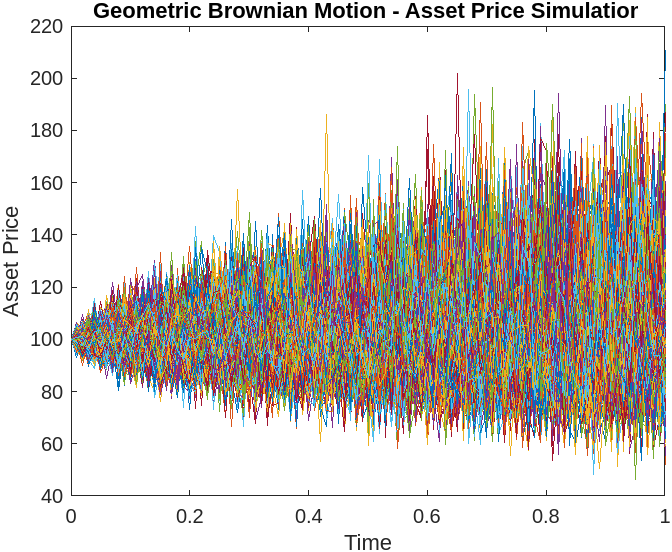
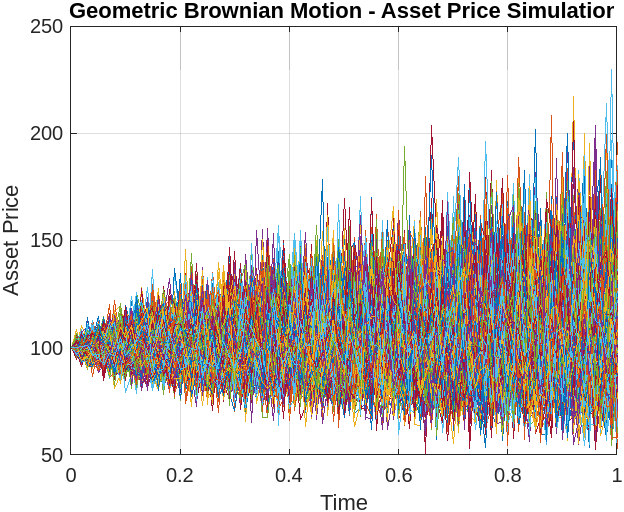
Dynamic Assets Prices with seed and computed results

diff --git a/GeometricBrownianMotion.m b/GeometricBrownianMotion.m
@@ -7,6 +7,9 @@ dt = 0.01;      % time step
 N = T/dt;       % number of time steps
 nPaths = 1000;  % number of paths
 
+% Set random number generator seed
+rng(42);
+
 % Initialize asset paths
 S = zeros(N+1, nPaths);
 S(1, :) = S0;
@@ -19,9 +22,25 @@ for iPath = 1:nPaths
     end
 end
 
+% Compute statistics at T
+S_T = S(end,:); % asset prices at time T
+mean_S_T = mean(S_T); % mean asset price at time T
+std_S_T = std(S_T); % standard deviation of asset prices at time T
+median_S_T = median(S_T); % median asset price at time T
+min_S_T = min(S_T); % minimum asset price at time T
+max_S_T = max(S_T); % maximum asset price at time T
+
+% Print results
+fprintf('Mean asset price at T: %.2f\n', mean_S_T); % Mean asset price at T: 105.43
+fprintf('Standard deviation of asset price at T: %.2f\n', std_S_T); % Standard deviation of asset price at T: 21.58
+fprintf('Median asset price at T: %.2f\n', median_S_T); % Median asset price at T: 102.98
+fprintf('Minimum asset price at T: %.2f\n', min_S_T); % Minimum asset price at T: 52.59
+fprintf('Maximum asset price at T: %.2f\n', max_S_T); % Maximum asset price at T: 196.30
+
 % Plot paths
 figure;
 plot(0:dt:T, S);
 xlabel('Time');
 ylabel('Asset Price');
 title('Geometric Brownian Motion - Asset Price Simulation');
+grid on;

diff --git a/WienerProcess.m b/WienerProcess.m
@@ -4,6 +4,9 @@ dt = 0.01;      % time step
 N = T/dt;       % number of time steps
 nPaths = 1000;  % number of paths
 
+% Set random number generator seed
+rng(42);
+
 % Initialize W and W^2
 W = zeros(N+1, nPaths);
 W2 = zeros(N+1, nPaths);
@@ -20,8 +23,20 @@ end
 % Compute expected value of W^2(T)
 E_W2_T = mean(W2(end,:));
 
-fprintf('Expected value of W^2(T): %.2f\n', E_W2_T);
-fprintf('T: %.2f\n', T);
+% Compute statistics
+mean_W_T = mean(W(end,:));
+std_W_T = std(W(end,:));
+median_W_T = median(W(end,:));
+min_W_T = min(W(end,:));
+max_W_T = max(W(end,:));
+
+% Print results
+fprintf('Expected value of W^2(T): %.2f\n', E_W2_T); % Expected value of W^2(T): 1.02
+fprintf('Mean of W(T): %.2f\n', mean_W_T); % Mean of W(T): -0.02
+fprintf('Standard deviation of W(T): %.2f\n', std_W_T); % Standard deviation of W(T): 1.01
+fprintf('Median of W(T): %.2f\n', median_W_T); % Median of W(T): -0.00
+fprintf('Minimum of W(T): %.2f\n', min_W_T); % Minimum of W(T): -2.65
+fprintf('Maximum of W(T): %.2f\n', max_W_T); % Maximum of W(T): 3.10
 
 % Plot paths
 figure;
